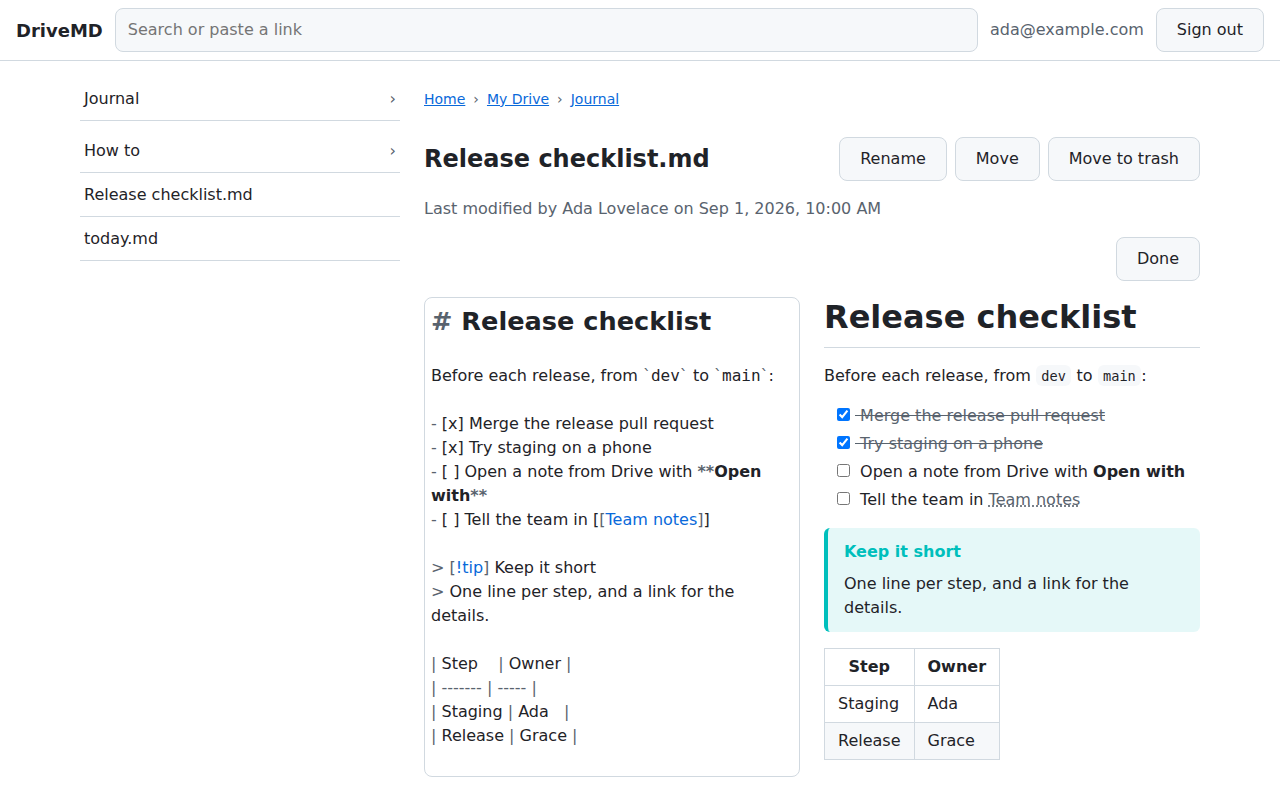
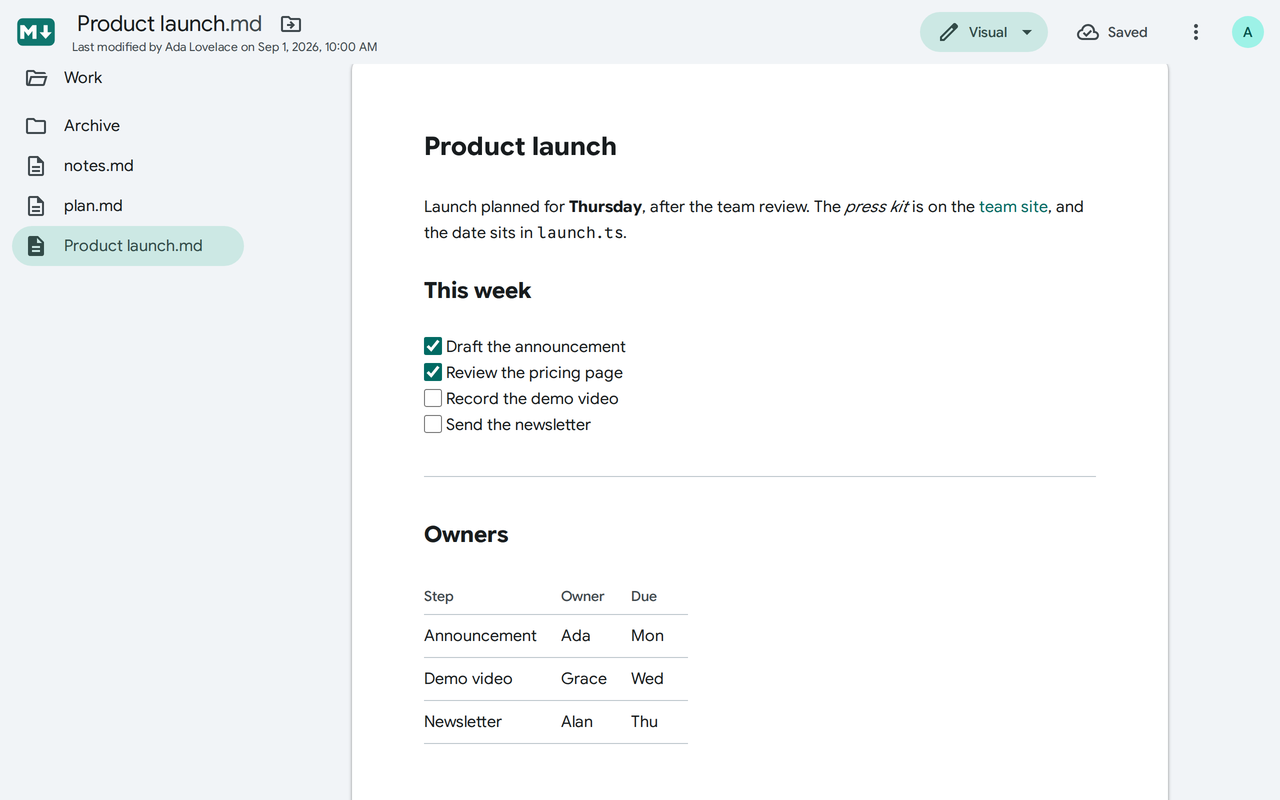
docs: run H2 on both devices, and refresh the listing's screenshot (#346)
Two leftovers of the README rewrite.

The device checks' H2, the dark theme, says "both devices", and the
overview's table says so too, but Order ran section H on the iPhone or
the phone alone. Order now runs H1 there and H2 with section F, which
already goes through both devices in both themes.

The Marketplace listing's screenshot, `docs/listing/screenshot.png`,
still showed the app from before the redesign: Source beside the
preview, with the old header and buttons. It is now the README's
Visual-mode screenshot, `docs/images/desktop-visual.png`, made-up data
included, scaled down to the 1280 × 800 the listing asks for. The
Marketplace shows it once it is uploaded there, by hand, as the spec's
listing steps say.

diff --git a/docs/device-checks.md b/docs/device-checks.md
@@ -137,23 +137,23 @@ Make four made-up notes in the test account's My Drive, from the app on the iPho
 
 Run the sections in this order, so that each context is set up once:
 
-1. iPhone, Safari: A, B, C, D, G, H, J, K.
+1. iPhone, Safari: A, B, C, D, G, H1, J, K.
 2. iPhone, Home Screen app: E, then C and D again in it.
 3. iPad, Safari: A, B, C, D, G, K.
 4. iPad, Home Screen app: E, then C and D again in it.
-5. Both devices, both themes: F.
+5. Both devices, both themes: F and H2.
 6. I, only if staging deploys a new version during the run.
 
 Run every check in the light theme unless it says otherwise: E3, section F, H2 and K17 also run the dark one. Once such a check ends, set the device back to light (`xcrun simctl ui <device> appearance light`) before the next one.
 
 ### Android
 
-1. Phone, Chrome: A, B, C, D, G, H, J, K, M.
+1. Phone, Chrome: A, B, C, D, G, H1, J, K, M.
 2. Phone, installed app: E, then C, D and M again in it, with K3, K5, K9 and K10, and L.
 3. Tablet, Chrome: A, C, D, G, K.
 4. Tablet, installed app: E, then C and D again in it.
 5. Phone, Samsung Internet, installed from the Play Store, which the developer signed in to for E1: A, D and M, with K3, K5, K9 and K10.
-6. Both devices, both themes: F.
+6. Both devices, both themes: F and H2.
 7. I, only if staging deploys a new version during the run.
 
 On each device, D6 comes first, in Chrome, before Gboard's full keyboard has ever come up (see Typing, under [Tools](device-setup-android.md#tools)): on the phone, before C6, whose D1 to D3 bring the full keyboard up. The first time the editor opens on a device, check K1's default, **Edit** opening Visual, before section D picks Source, which the device then remembers. Run every check in the light theme, unless it says otherwise: E3, section F, H2 and K17 also run the dark one, after which the device goes back to light (`adb -s <serial> shell cmd uimode night no`).
